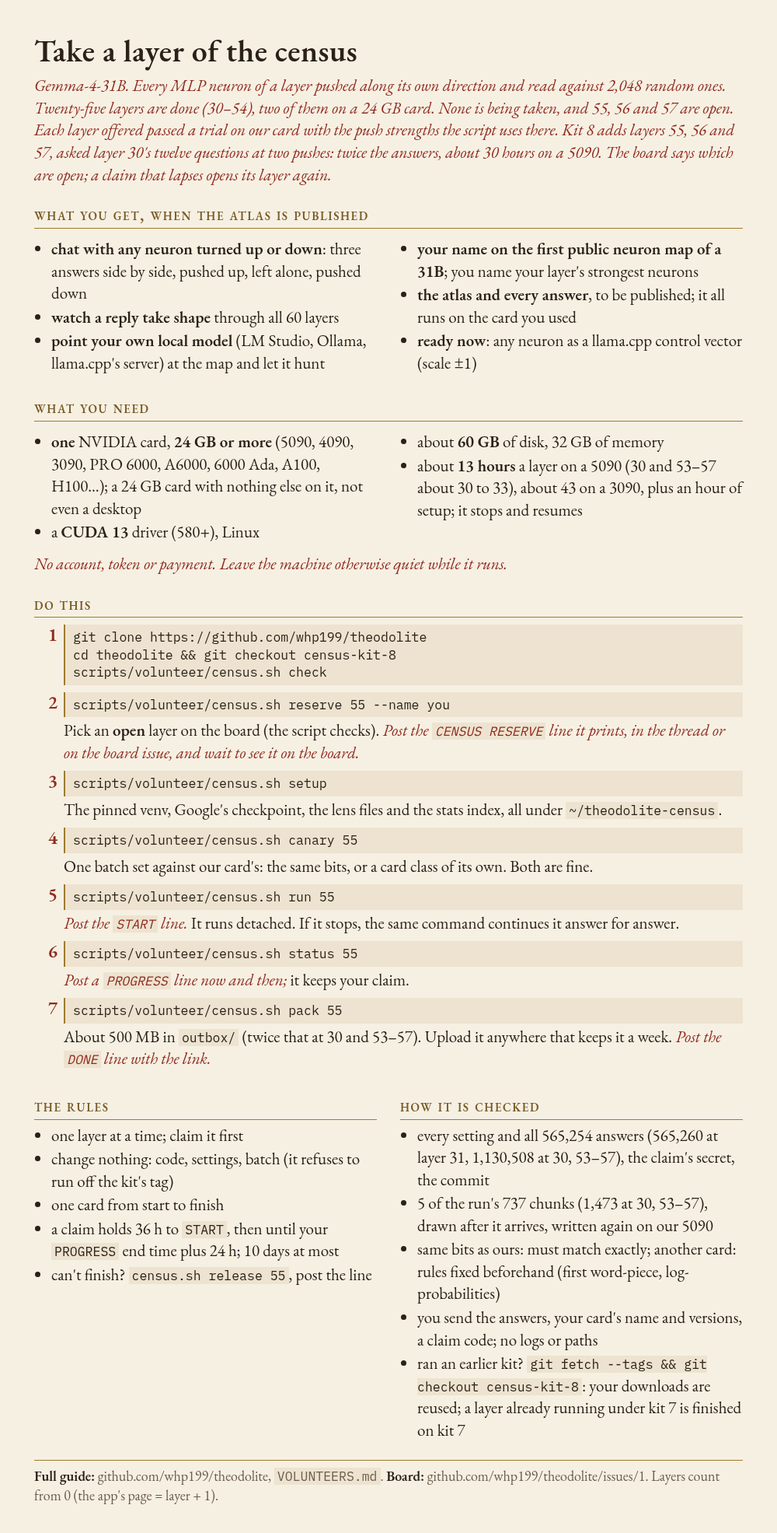
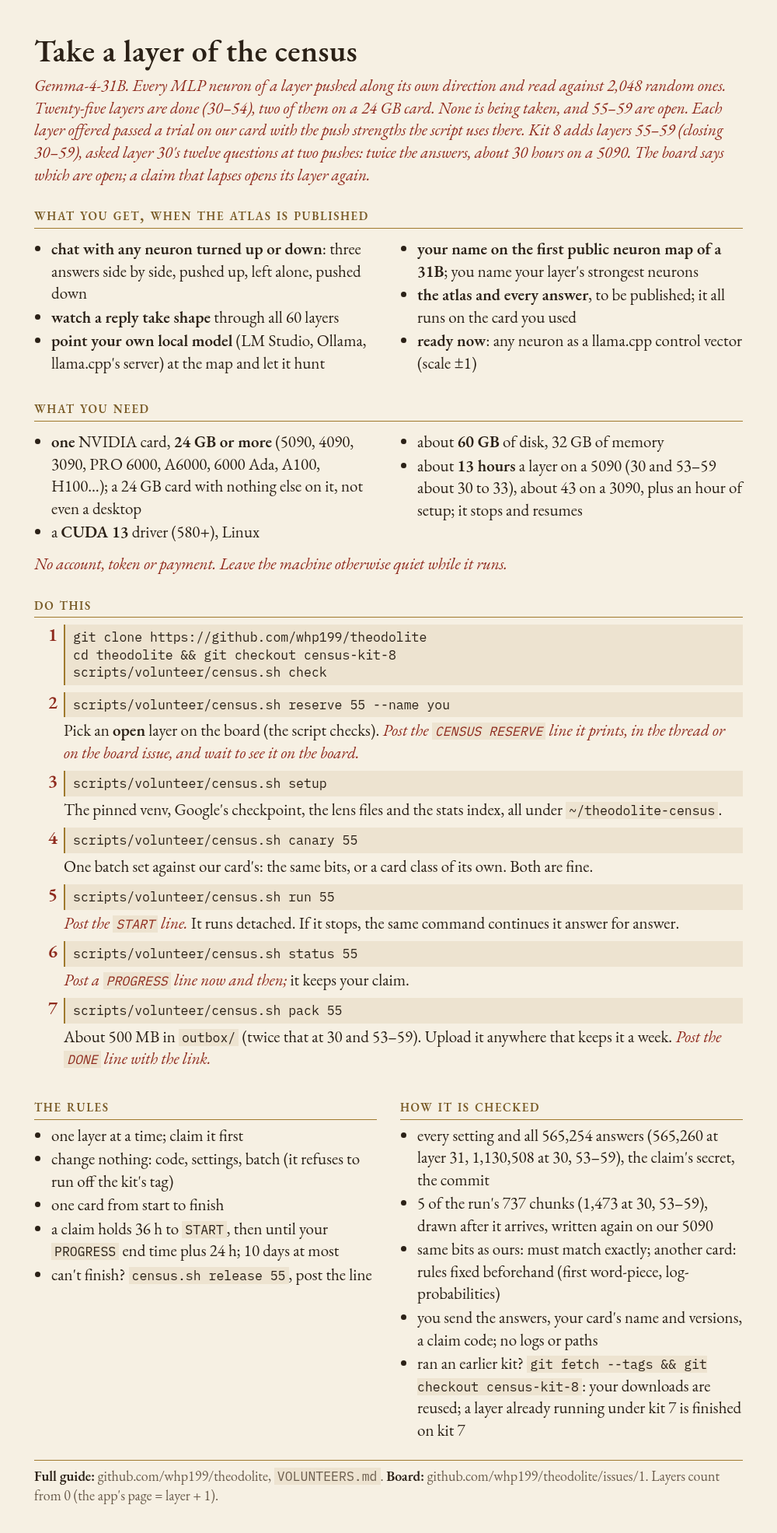
Kit 8 expanded (L55-L59): open L58-L59, closing L30-L59

Changed region(s): [[0.031, 0.0619, 0.682, 0.1238], [0.682, 0.0619, 0.93, 0.1238]]

diff --git a/volunteers/post/guide.html b/volunteers/post/guide.html
@@ -31,9 +31,9 @@ code { font-size:16.5px; background:rgba(160,122,46,.10); padding:0 4px; }
 
 <h1>Take a layer of the census</h1>
 <p class="sub">Gemma-4-31B. Every MLP neuron of a layer pushed along its own direction and read against 2,048 random
-ones. Twenty-five layers are done (30–54), two of them on a 24 GB card. None is being taken, and 55, 56 and 57 are open.
-Each layer offered passed a trial on our card with the push strengths the script uses there. Kit 8 adds layers 55,
-56 and 57, asked layer 30's twelve questions at two pushes: twice the answers, about 30 hours on a 5090. The board says which are open; a
+ones. Twenty-five layers are done (30–54), two of them on a 24 GB card. None is being taken, and 55–59 are open.
+Each layer offered passed a trial on our card with the push strengths the script uses there. Kit 8 adds layers 55–59
+(closing 30–59), asked layer 30's twelve questions at two pushes: twice the answers, about 30 hours on a 5090. The board says which are open; a
 claim that lapses opens its layer again.</p>
 
 <h2>what you get, when the atlas is published</h2>
@@ -58,7 +58,7 @@ claim that lapses opens its layer again.</p>
 </ul>
 <ul>
 <li>about <b>60 GB</b> of disk, 32 GB of memory</li>
-<li>about <b>13 hours</b> a layer on a 5090 (30 and 53–57 about 30 to 33), about 43 on a 3090, plus an hour of setup; it stops and resumes</li>
+<li>about <b>13 hours</b> a layer on a 5090 (30 and 53–59 about 30 to 33), about 43 on a 3090, plus an hour of setup; it stops and resumes</li>
 </ul>
 </div>
 <p class="rub">No account, token or payment. Leave the machine otherwise quiet while it runs.</p>
@@ -81,7 +81,7 @@ continues it answer for answer.</p></div></li>
 <li><div><pre>scripts/volunteer/census.sh status 55</pre>
 <p class="say"><span class="rub">Post a <code>PROGRESS</code> line now and then;</span> it keeps your claim.</p></div></li>
 <li><div><pre>scripts/volunteer/census.sh pack 55</pre>
-<p class="say">About 500 MB in <code>outbox/</code> (twice that at 30 and 53–57). Upload it anywhere that keeps it a week. <span class="rub">Post the
+<p class="say">About 500 MB in <code>outbox/</code> (twice that at 30 and 53–59). Upload it anywhere that keeps it a week. <span class="rub">Post the
 <code>DONE</code> line with the link.</span></p></div></li>
 </ol>
 
@@ -99,8 +99,8 @@ continues it answer for answer.</p></div></li>
 <div>
 <h2>how it is checked</h2>
 <ul>
-<li>every setting and all 565,254 answers (565,260 at layer 31, 1,130,508 at 30, 53–57), the claim's secret, the commit</li>
-<li>5 of the run's 737 chunks (1,473 at 30, 53–57), drawn after it arrives, written again on our 5090</li>
+<li>every setting and all 565,254 answers (565,260 at layer 31, 1,130,508 at 30, 53–59), the claim's secret, the commit</li>
+<li>5 of the run's 737 chunks (1,473 at 30, 53–59), drawn after it arrives, written again on our 5090</li>
 <li>same bits as ours: must match exactly; another card: rules fixed beforehand (first word-piece, log-probabilities)</li>
 <li>you send the answers, your card's name and versions, a claim code; no logs or paths</li>
 <li>ran an earlier kit? <code>git fetch --tags &amp;&amp; git checkout census-kit-8</code>: your downloads are reused; a layer already running under kit 7 is finished on kit 7</li>

diff --git a/scripts/check_volunteer_kit.py b/scripts/check_volunteer_kit.py
@@ -613,16 +613,19 @@ def run_checks(tmp: Path) -> int:
           "a run of another card class at 58 or 59 under match_things is judged only once their bars are measured")
     in_code = [e for e in cv.OTHER_CLASS_BARS if e["measured"] != "2026-10-31"]
     real_kit = cv.read_kit()
-    open_layers = [31, 32, 33, 34, 35, 37, 38, 39, 51, 52]
+    open_layers = [30, 31, 32, 33, 34, 35, 37, 38, 39, 51, 52, 53, 54, 55, 56, 57, 58, 59]
     check([(e["design"], list(e["layers"]), e["measured"], e["bars"]) for e in in_code]
           == [(e["design"], list(e["layers"]), e["measured"], e["bars"]) for e in measured]
           and all(cv.accept_bars(cv.kit_design(real_kit, l), l) is not None for l in open_layers)
+          and cv.accept_bars("match_things", 55)["lp_p99"] == 0.25
+          and cv.accept_bars("match_things", 58)["lp_p99"] is None
           and cv.accept_bars("soft_ceil", 53) is None and cv.accept_bars("break_rel", 45) == cv.ACCEPT_OTHER_CLASS
           and cv.accept_bars("match_ceil", 34)["lp_median"] < cv.ACCEPT_OTHER_CLASS["lp_median"],
           f"kits 4's to 8's bars in the code are their measurements' tables, and every layer open on the board has bars ({[e['bars'] for e in in_code]})")
     far = {**ok_cmp, "lp_median": 0.03, "lp_p99": 0.9}
     check(not cv.judge(far, False)[0] and cv.judge(far, False, None, cv.accept_bars("match_ceil", 34, table))[1] != []
           and cv.judge({**far, "lp_p99": 0.1}, False, None, cv.accept_bars("match_ceil", 34, table))[0]
+          and cv.judge({**ok_cmp, "lp_p99": 0.9}, False, None, cv.accept_bars("match_things", 58))[0]
           and not cv.judge(far, False, None, cv.accept_bars("match_ceil", 33, table))[0]
           and cv.judge({**far, "lp_median": 0.01}, False, None, cv.accept_bars("match_ceil", 33, table))[0],
           "a run is judged by the bars it is given, and a bar that was dropped is not asked")

diff --git a/VOLUNTEERS.md b/VOLUNTEERS.md
@@ -35,6 +35,7 @@ neuron can write by itself, its *write ceiling*:
 | 39 and 51 | ±1 and ±2 of the stream, as at layers 40 to 50 | passed at each, 12 November 2026 |
 | 53 and 54 | layer 30's twelve questions at two counts, set for each layer as at 30 (2.24 and 2.42 ceilings at 53, 2.18 and 2.34 at 54) | passed at each, 18 and 19 November 2026 |
 | 55, 56 and 57 | layer 30's twelve questions at two counts, set for each layer as at 30 (1.95 and 2.14 ceilings at 55, 1.96 and 2.11 at 56, 1.55 and 1.68 at 57) | passed dual-control U2 rollout (`columns` + `isotropic`), 26 and 27 November 2026 |
+| 58 and 59 | layer 30's twelve questions at two counts, set for each layer as at 30 (1.16 and 1.27 ceilings at 58, 0.61 and 0.64 at 59) | passed dual-control U2 rollout (`columns` + `isotropic`), 27 November 2026 |
 
 The script picks the right one for the layer you take; there is nothing to choose. The trials did not pass equally:
 layer 34 passed by the most, and layer 36 by a thousandth on one of its three checks
@@ -44,22 +45,23 @@ with these push strengths. At layer 31 the design that asks twice the questions 
 November 2026). It failed at layer 30, and so did the same twelve questions at both pushes (17 November). At layer
 30 a third design passed (18 November): both pushes, on twelve other questions of the kinds whose answers took a
 push's words up there. The same design then passed at layers 53 and 54 and failed at 29 and 55 on its single-control
-walk (18 and 19 November), then passed at layers 55, 56 and 57 on the dual-control `U2` rollout walk (`columns` +
-`isotropic` controls, `experiments/results/u2_rollout_trial/`, 26 and 27 November 2026). No push strengths have passed
-a trial at layers 0 to 29 or a rollout trial at 58 or 59. Following the exploratory census layer-gap study and GPU
-kill-pilots ([`ANSWER.md`](experiments/results/census_layer_gap/ANSWER.md)), layers 0 to 29 and 58 to 59 remain shut
-and are not offered to volunteers (layers 30 to 54 have been taken, keeping 29,265 page-described neurons, and 55 to 57
-are open under kit 8). **The board says
+walk (18 and 19 November), then passed at layers 55, 56, 57, 58 and 59 on the dual-control `U2` rollout walks
+(`columns` + `isotropic` controls, `experiments/results/u2_rollout_trial/` and `experiments/results/u2_rollout_L58_L59/`,
+26 and 27 November 2026), closing the upper half (30 to 59). No push strengths have passed a trial at layers 0 to 29.
+Following the exploratory census layer-gap study and GPU kill-pilots
+([`ANSWER.md`](experiments/results/census_layer_gap/ANSWER.md)), layers 0 to 29 remain shut and are not offered to
+volunteers (layers 30 to 54 have been taken, keeping 29,265 page-described neurons, and 55 to 59 are open under kit 8).
+**The board says
 which layers are open.** Layers count from 0, as every script counts them (the app's page = layer + 1).
 
-**Kit 8, the kit to use now, is kit 7 with layers 55, 56 and 57 added** (27 November 2026), each taken with the design
-for layer 30 at its own push strengths (above). Every other layer is taken exactly as under kit 7. **Layers 30 and 53
-to 57 are twice the others**: 48 answers a neuron, not 24, so 1,130,508 in all. That is about 30 to 33 hours on a 5090
-(by our trials' pace at 30 and 53–54). Kit 7 (19 November 2026) added layers 53 and 54, kit 6 (18 November) layer 30,
-and kit 5 (17 November) layer 31. Kit 4 opened the census to 24 GB cards (14 November 2026, from a contributor's pull
-request): the loader keeps a part of the model the census never reads off the card, and `census.sh check` asks how much
-of the card is free. **If a layer of yours is running under kit 7, finish it with kit 7**: do not switch its checkout.
-Its bundle is checked by kit 7's own rules.
+**Kit 8, the kit to use now, is kit 7 with layers 55, 56, 57, 58 and 59 added** (27 November 2026), each taken with
+the design for layer 30 at its own push strengths (above). Every other layer is taken exactly as under kit 7. **Layers
+30 and 53 to 59 are twice the others**: 48 answers a neuron, not 24, so 1,130,508 in all. That is about 30 to 33 hours
+on a 5090 (by our trials' pace at 30 and 53–54). Kit 7 (19 November 2026) added layers 53 and 54, kit 6 (18 November)
+layer 30, and kit 5 (17 November) layer 31. Kit 4 opened the census to 24 GB cards (14 November 2026, from a contributor's
+pull request): the loader keeps a part of the model the census never reads off the card, and `census.sh check` asks how
+much of the card is free. **If a layer of yours is running under kit 7, finish it with kit 7**: do not switch its
+checkout. Its bundle is checked by kit 7's own rules.
 
 **The board** shows which layer is whose: the pinned *Census layer board* issue, <https://github.com/whp199/theodolite/issues/1>.
 
@@ -76,15 +78,15 @@ layer on:
 - **Point your own local model at the map.** The scientist works with any OpenAI-compatible endpoint (LM Studio,
   Ollama, llama.cpp's server). It runs pushes and texts, names what it finds, and points at it on the map.
 - **Your name on the first public map of a 31B's neurons.** We found none published, only sparse autoencoders
-  (`REFERENCES.md` §J). Your layer is credited to the name you gave, and you name the strongest neurons of your layer
+  (`REFERENCES.md` §J). Your layer is credited to the name you gave, and you name your layer's strongest neurons
   in the published atlas.
-- **Open data**: every answer of every layer, 565,254 a layer (twice that at layers 30 and 53 to 57), to be published
+- **Open data**: every answer of every layer, 565,254 a layer (twice that at layers 30 and 53 to 59), to be published
   with the project.
 - **Ready now: a neuron in your own frontend.** Any neuron exports as a llama.cpp control vector, for `llama-server`
   and SillyTavern or anything else on it. Keep the scale near ±1 (*Use a neuron in your own setup*, below).
 
 A census rank says what a neuron's push does to six fixed questions at four strengths (at layer 31, twelve at two;
-at layers 30 and 53 to 57, twelve others at four).
+at layers 30 and 53 to 59, twelve others at four).
 What it does in your own chats, you try for yourself.
 
 ## What you need
@@ -93,15 +95,15 @@ What it does in your own chats, you try for yourself.
   L40S, A100, H100 or H200. The 4-bit model rests at about 18 GiB on the card and a batch of answers takes up to about
   4.2 GiB more; it is not split across cards. **A 24 GB card must be headless**: no desktop or other process on it,
   since the longest batches leave under a GiB of its free memory: about 800 MiB on a headless RTX 3090, and about
-  157 to 453 MiB on our own 5090 held down to the 23,900 MiB free that `census.sh check` asks for (169, 157 and 453 MiB
-  at layers 55, 56 and 57). A run that runs out of
+  157 to 453 MiB on our own 5090 held down to the 23,900 MiB free that `census.sh check` asks for (169, 157, 453, 438
+  and 204 MiB at layers 55, 56, 57, 58 and 59). A run that runs out of
   memory stops and is continued by the same command; it never changes its batch. A 3090 has been measured; a 4090
   has not yet been tried.
 - **A driver for CUDA 13**: `nvidia-smi` shows `CUDA Version: 13.0` or later (driver 580 or newer).
 - **Linux**, about **60 GB** free disk, 32 GB of memory, and `git`, `curl`, `zstd`, `tar` and `flock` (util-linux),
   and a C compiler (`gcc`), which Triton may need for its kernels.
 - **Time**: about 13 hours for a layer on a 5090, plus about an hour of setup, mostly downloading about 35 GB. Layers
-  30 and 53 to 57 have twice the answers: about 30 to 33 hours on a 5090 (by our trials' pace at 30 and 53–54).
+  30 and 53 to 59 have twice the answers: about 30 to 33 hours on a 5090 (by our trials' pace at 30 and 53–54).
   Other cards will differ (an RTX 3090 held at its 83 °C limit wrote a sixteenth of layer 45 at 3.7 answers a
   second: about 43 hours for a layer, and perhaps four or five days for one of those), and the status line tells
   you yours. The run can be stopped and continued at any point.
@@ -184,7 +186,7 @@ scripts/volunteer/census.sh check                      # can this machine take a
    ```
 
    It checks the run is whole and taken with the kit's settings, then packs about 500 MB (about twice that at layers
-   30 and 53 to 57) into `~/theodolite-census/outbox/L55-match_things-<claim>.tar` (the name carries the layer's
+   30 and 53 to 59) into `~/theodolite-census/outbox/L55-match_things-<claim>.tar` (the name carries the layer's
    design). Upload that somewhere anyone can download it for a week or more: a Hugging Face dataset, a torrent, a
    file host. Post the `CENSUS DONE` line with your link in it.
 
@@ -228,12 +230,12 @@ These rules were fixed on 30 October 2026, before any volunteer's run had been s
    - every setting, the job list, the stats index and the push strength must match ours at that layer;
    - the commit must be the kit's tag, from a clean checkout;
    - every one of the layer's 565,254 answers must be there exactly once (565,260 at layer 31, 1,130,508 at layers
-     30 and 53 to 57).
+     30 and 53 to 59).
 3. **The canary**:
    - against your own run's first batch (the same card writing the same batch);
    - against ours (the same bits, or a class of its own);
-   - your six unpushed answers against ours (twelve at layers 30, 31 and 53 to 57).
-4. **The spot-check**: when the bundle arrives, 5 of the run's 737 chunks (1,473 at layers 30 and 53 to 57) are drawn at
+   - your six unpushed answers against ours (twelve at layers 30, 31 and 53 to 59).
+4. **The spot-check**: when the bundle arrives, 5 of the run's 737 chunks (1,473 at layers 30 and 53 to 59) are drawn at
    random, so nobody can know them in advance. Each is written again on our 5090, about a minute a chunk. Then:
    - **The same bits as ours**: every spot answer must match bit for bit.
    - **A card class of its own**: the run must meet all of these:
@@ -250,6 +252,7 @@ These rules were fixed on 30 October 2026, before any volunteer's run had been s
        | 39–51 | `break_rel` | 0.028 | 0.37 |
        | 53 and 54 | `match_things` | 0.0091 | 0.26 |
        | 55–57 | `match_things` | 0.0086 | 0.25 |
+       | 58 and 59 | `match_things` | 0.0098 | — |
 
      - each unpushed answer is ours, or parts from ours only at a word-piece we wrote with probability below 0.6 (a
        near-tie).
@@ -283,7 +286,7 @@ These rules were fixed on 30 October 2026, before any volunteer's run had been s
    RTX PRO 6000 under `match_ceil` and accepted on 16 November 2026, came to medians of 0.0051 and 0.0046 and 99th
    percentiles of 0.115 and 0.110, where our own arithmetic gave 0.0050 and 0.117 (layers 33 and 32, from the same
    card on 17 and 18 November, 0.0055 and 0.116, and 0.0052 and 0.117); and layer 51, from an RTX 3090 under
-   `break_rel`, to 0.0111 and 0.150. A layer with no measured bars (0 to 29 and 58 to 59, which are shut) is not judged
+   `break_rel`, to 0.0111 and 0.150. A layer with no measured bars (0 to 29, which are shut) is not judged
    until they are measured.
 
    **Amended 17 November 2026: kit 5's layer 31.** Layer 31 is taken with `match_wide`, which no earlier kit measured.
@@ -332,6 +335,20 @@ These rules were fixed on 30 October 2026, before any volunteer's run had been s
      matched them bit for bit. The near-tie bar stays 0.6 (24 of 132 arithmetic-only answers parted per layer, the
      surest at 0.52).
 
+   **Amended 27 November 2026: kit 8's layers 58 and 59.** They are taken with `match_things` too, at pushes of their
+   own (±1.16 and ±1.27 ceilings at 58, ±0.61 and ±0.64 at 59), after passing the dual-control `U2` rollout walk
+   (`columns` + `isotropic`, `experiments/results/u2_rollout_L58_L59/`). Before they opened under kit 8, their bars
+   were measured on our 5090, by the same rule, under a registration committed before the measurement
+   ([`census_other_card_bars/kit8_ext/prereg/RULES.md`](experiments/results/census_other_card_bars/kit8_ext/prereg/RULES.md)).
+   The measurement used 768 answers a layer, the two layers pooled (1,536 answers a variant).
+   - Our own arithmetic moves the median to 0.0043, so the median bar is 0.0098 (catching a push 10% off); it moves the
+     99th percentile to 0.3226, where no near miss is caught cleanly, so the 99th-percentile bar is dropped (`None`) by
+     the rule. Neither layer's own floor reaches the group's bar, and the first-piece bar stays 0.90 (lowest arithmetic
+     0.9948).
+   - Their twelve unpushed answers are layer 30's: no push enters them, and the `u2_rollout_L58_L59` runs at 58 and 59
+     matched them bit for bit. The near-tie bar stays 0.6 (24 of 132 arithmetic-only answers parted per layer, the
+     surest at 0.52).
+
    **Amended 31 October 2026: the unpushed answers.** The first rule asked each to share at least 16 word-pieces with
    ours. That first volunteer's whole run kept three of the six word for word. The other three parted sooner, at
    pieces 5, 21 and 27, each a near-tie: we had written that piece with probability 0.50, 0.41 or 0.50, and their card
@@ -353,10 +370,10 @@ text survives as the random directions' does (the rules are in `experiments/resu
 `census_soft_trials/prereg/`, `census_match_trials/prereg/` and `census_match_walk/prereg/`). The trials at 30, 31,
 53 and 54 had two of them, the whole reading and the neurons the random directions cover, and those layers are read
 by those two (`census_wide_trials/prereg/`, `census_things_trial/prereg/` and `census_things_walk/prereg/`). The
-push strengths are counted calibrated at eleven of the seventeen layers whose trial passed. Kit 3 opened nine of them,
+push strengths are counted calibrated at eleven of the nineteen layers whose trial passed. Kit 3 opened nine of them,
 layer 36 was held for our own card and taken there, kit 5 added layer 31, kit 6 layer 30, kit 7 added 53 and 54, and
-kit 8 adds 55, 56 and 57.
-At those six (30 and 53 to 57) they are not counted calibrated yet: that is the owner's to decide, and nothing has
+kit 8 adds 55 to 59.
+At those eight (30 and 53 to 59) they are not counted calibrated yet: that is the owner's to decide, and nothing has
 been changed.
 Read whole by these checks (16 to 22 November 2026), layers 32 to 35, 37 to 39, 51 and 52 pass all three, layers 31,
 53 and 54 pass their two, layer 36 passes two and misses the gentler push's check on one figure, 0.564 against 0.57, and

diff --git a/ROADMAP.md b/ROADMAP.md
@@ -1763,34 +1763,43 @@ layers, the determinism run and the sampled push on 29 October). In this section
       words did not carry; at 29 and 30 it reads almost nothing (0.53 to 0.57, no neuron at q ≤ 0.05). At the top
       layers this is close to built in, a narrower claim than the census’s. Judging a layer by it would need a fresh
       trial and bars of its own, and whether a layer read only so counts as taken is the owner’s word.
-  - **Kit 8: kit 7 with layers 55, 56 and 57 added** (cut 27 November 2026, tag `census-kit-8`, after the
-    pre-registered dual-control `U2` rollout walk in [`u2_rollout_trial/`](experiments/results/u2_rollout_trial/RESULT.md)
-    cleared all three layers 3-for-3). Layers 55, 56 and 57 are taken with `match_things`, on layer 30’s twelve
-    questions at each layer’s own two counts (±1.95 and ±2.14 ceilings at 55, ±1.96 and ±2.11 at 56, ±1.55 and ±1.68
-    at 57; `MATCH_CEIL`): 48 answers a unit, 1,130,508 a layer, about 30 to 33 hours on a 5090. Their doses are not
-    counted calibrated there (`DOSES_CALIBRATED` unchanged). Every other layer is taken as under kit 7.
-    - **The `u2_rollout` validation (`L55 -> L56 -> L57`, 26–27 November)** evaluated `1,022` fresh neurons per layer
-      against dual paired controls (`1,024 columns` seed=21 and `1,024 isotropic` seed=22) on both Track 2A
-      (`U2-T_dec`: `94`, `134`, `82` dual `FDP <= 0.05` `N >= 3`; `C4` `1.000`, `0.975`, `0.937`) and corrected Track 2B
-      (`U2-weight_words`: `177`, `307`, `382` dual `q <= 0.05`), with `0 / 1,024` cross-pool false discoveries at every
-      layer.
+  - **Kit 8: kit 7 with layers 55–59 added, closing L30–L59** (cut 27 November 2026, tag `census-kit-8`, after the
+    pre-registered dual-control `U2` rollout walks in [`u2_rollout_trial/`](experiments/results/u2_rollout_trial/RESULT.md)
+    and [`u2_rollout_L58_L59/`](experiments/results/u2_rollout_L58_L59/RESULT.md) cleared all five layers 5-for-5).
+    Layers 55, 56, 57, 58 and 59 are taken with `match_things`, on layer 30’s twelve questions at each layer’s own two
+    counts (±1.95 and ±2.14 ceilings at 55, ±1.96 and ±2.11 at 56, ±1.55 and ±1.68 at 57, ±1.16 and ±1.27 at 58, ±0.61
+    and ±0.64 at 59; `MATCH_CEIL`): 48 answers a unit, 1,130,508 a layer, about 30 to 33 hours on a 5090. Their doses
+    are not counted calibrated there (`DOSES_CALIBRATED` unchanged). Every other layer is taken as under kit 7.
+    - **The `u2_rollout` validation (`L55–L59`, 26–27 November)** evaluated `1,022` fresh neurons per layer against dual
+      paired controls (`1,024 columns` seed=21 and `1,024 isotropic` seed=22): `L55–L57` passed on both Track 2A
+      (`U2-T_dec`: `94`, `134`, `82` dual `FDP <= 0.05` `N >= 3`; `C4` `1.000`, `0.975`, `0.937`) and Track 2B
+      (`U2-weight_words`: `177`, `307`, `382` dual `q <= 0.05`); `L58` passed Track 2B (`483 / 1,022 = 47.3%`,
+      `AUC = 0.7743 / 0.7704`, `rho_AB = 0.8418`) and reached `424` all-`N>=1` `fdp05` (`vs_col`) on Track 2A; and
+      `L59` (under the `(0.61, 0.64)` `fine_pilot_L59.json` amendment) passed Track 2A (`112 / 1,022` dual `N >= 3`,
+      `C4 = 0.9421 / 0.9622`) with `432 / 1,022 = 42.3%` dual `q <= 0.05` on Track 2B (`0 / 1,024` cross-pool false
+      discoveries at every layer).
     - **The answers and 24 GB headroom.** All 16 carried-over home canaries of kit 7, taken again under kit 8, matched
-      bit for bit; `L55`, `L56` and `L57` under `match_things` were added (`9243f99`, 82 files in
+      bit for bit; `L55`, `L56` and `L57` under `match_things` were added (`9243f99`, 82 files), and then `L58` and `L59`
+      were added alongside `17/17` active carried-over canaries matching bit for bit (`eecca22`, 84 files in
       `volunteers/home_canaries/`). Held to `23,900 MiB` free on the home 5090 (`measure_batches.py --hold-mib`), all
       12 longest batches were written at each layer (`22.14 GiB` net allocated, `walk` the tightest): `169 MiB` spare
-      at 55, `157 MiB` at 56, and `453 MiB` at 57.
+      at 55, `157 MiB` at 56, `453 MiB` at 57, `438 MiB` at 58 (`bicycle`), and `204 MiB` at 59 (`lamp`).
     - **Their unpushed answers** are layer 30’s (`census_volunteer.DESIGN_BASELINES`): no push enters them, and the
-      `u2_rollout` trials at 55, 56 and 57 wrote the same twelve bit for bit.
-    - **Their bars for another card class**, registered before anything was measured
-      ([`census_other_card_bars/kit8/prereg/RULES.md`](experiments/results/census_other_card_bars/kit8/prereg/RULES.md),
-      `7011bae`, measured `dacbade`). At each layer all 12 unpushed answers matched `u2_rollout` bit for bit (T1), and
-      the near-tie bar stayed `0.6` (`24/132` arithmetic-only partings per layer, surest `0.5194`; T2). On the pooled
-      chunk 0 of all three layers (`2,304` answers a variant), the home card’s arithmetic moves the median to `0.0037`
-      and the 99th percentile to `0.1118`; the bars are `0.0086` (catching a push 5% off) and `0.25` (10% off), and
-      `0.90` of first word-pieces (lowest arithmetic `0.9925`). None of the three layers’ own floors reaches the
-      group’s bars (`1173a0b`).
-    - **The board** is kit 8’s with 55, 56 and 57 open (`25` layers done, `30–54`, `19` by volunteers; `0–29` and
-      `58–59` shut / not taken). Any run begun under kit 7 finishes on kit 7 (`census_volunteer.earlier_kit`).
+      `u2_rollout` trials at 55–59 wrote the same twelve bit for bit.
+    - **Their bars for another card class**, registered before anything was measured:
+      - `L55–L57` ([`kit8/prereg/RULES.md`](experiments/results/census_other_card_bars/kit8/prereg/RULES.md), `7011bae`,
+        measured `dacbade`): `12/12` unpushed answers matched `u2_rollout` bit for bit (T1), near-tie bar `0.6`
+        (`24/132` partings per layer, surest `0.5194`; T2); pooled chunk 0 (`2,304` answers/variant) gave arithmetic
+        median `0.0037` and 99th percentile `0.1118`, setting bars `0.0086` (5% off), `0.25` (10% off), and `0.90` first
+        piece (lowest arithmetic `0.9925`; `1173a0b`).
+      - `L58–L59` ([`kit8_ext/prereg/RULES.md`](experiments/results/census_other_card_bars/kit8_ext/prereg/RULES.md),
+        `e2d210e`, measured `13b3997`): `12/12` unpushed answers matched `u2_rollout_L58_L59` bit for bit (T1),
+        near-tie bar `0.6` (`24/132` partings per layer, surest `0.5194`; T2); pooled chunk 0 (`1,536` answers/variant)
+        gave arithmetic median `0.0043` and 99th percentile `0.3226`, setting `lp_median = 0.0098` (10% off), `lp_p99 =
+        None` (dropped by the rule, neither layer reaching a group bar), and `first_piece = 0.90` (lowest arithmetic
+        `0.9948`; `8d0212c`).
+    - **The board** is kit 8’s with 55–59 open (`25` layers done, `30–54`, `19` by volunteers; `0–29` shut / not taken).
+      Any run begun under kit 7 finishes on kit 7 (`census_volunteer.earlier_kit`).
 - **A pattern put to the test, without a push** (built 14 November 2026 on the stand-in, and tried on the 31B the
   same day, below; the owner’s words that day, “Start on the first two ideas from the article”, then “Pause 36, try
   now”). The census

diff --git a/docs/ATLAS.md b/docs/ATLAS.md
@@ -53,10 +53,12 @@ a thing works, for three tips or about an object. Kit 6 offered it there, and re
 short of its trial on one figure, how its words carry between question halves (0.553 against a bar of 0.57). Read
 against the random directions every whole layer is read against, the trial's own neurons fall short too: the
 trial's draw of random directions was a kind one. Its doses are not counted calibrated. The same design passed at 54 and 55 (53 and 54 on the board) on 18 and 19 November and failed at 30 and 56 on its
-single-control walk; kit 7 offered it at 54 and 55. On 26–27 November it passed at 56–58 (55–57 on the board) under the
-dual-control `U2` rollout walk (`columns` + `isotropic`, [`experiments/results/u2_rollout_trial/`](../experiments/results/u2_rollout_trial/));
-since 27 November kit 8 offers it at 56–58, its doses not counted calibrated there either. The other thirty-two layers
-(1–30 and 59–60) have no design that passed there. Where a census’s doses are not counted calibrated the atlas
+single-control walk; kit 7 offered it at 54 and 55. On 26–27 November it passed at 56–60 (55–59 on the board) under the
+dual-control `U2` rollout walks (`columns` + `isotropic`, [`experiments/results/u2_rollout_trial/`](../experiments/results/u2_rollout_trial/)
+and [`experiments/results/u2_rollout_L58_L59/`](../experiments/results/u2_rollout_L58_L59/));
+since 27 November kit 8 offers it at 56–60, closing the upper half (31–60; 30–59 on the board), its doses not counted
+calibrated there either. The other thirty layers
+(1–30) have no design that passed there. Where a census’s doses are not counted calibrated the atlas
 marks it “doses not calibrated at this layer” and inks it without gilt.
 
 Eleven layers of the second round are in. Three volunteers took layers 35, 36, 40 and 52 (34, 35, 39 and 51 on the
@@ -93,10 +95,10 @@ and says little of single neurons: none has q ≤ 0.05 and 49 beat all 2,048.
 On 22 November 55 (54) came home from the RTX PRO 6000 that took 31–36, and passes both of its trial's checks read
 whole, a little above its trial: it leads by 0.727 (0.712), its words carry by 0.621 and 0.625, 5,481 have q ≤ 0.05
 and 4,254 beat all 2,048, and its strongest random directions stand 6 deviations out writing “thought” run together.
-The steer lens agrees with it, now the highest layer it has been checked at. None is being taken and 56–58 (55–57 on
-the board) are open under kit 8. Every figure is in ROADMAP §vi.
+The steer lens agrees with it, now the highest layer it has been checked at. None is being taken and 56–60 (55–59 on
+the board) are open under kit 8, closing the upper half. Every figure is in ROADMAP §vi.
 
-After the census layer-gap study and its three GPU kill-pilots ([`ANSWER.md`](../experiments/results/census_layer_gap/ANSWER.md)), layers 31–55 (0–based 30–54, keeping `.units.jsonl`'s 29,265 page-described neurons) remain the twenty-five taken census layers until 56–58 arrive, and layers 1–30 and 59–60 (0–based 0–29 and 58–59) remain shut / not taken. Where supplementary files are present, the atlas surfaces exploratory readings on those un-taken layers strictly beside always-visible red caveats: pushed on set text (`forced_odd`, 0.25-nat uncalibrated doses) at layers 56–60 and document-disjoint causal `(-1, 0)` corpus firing (`input_census`, read on the existing `passages.d` index without storing passages) at layers 1–30; neither is served as a taken census, and `fdr_rescue` / `circuit_mediated` are not shown in the interface.
+After the census layer-gap study and its three GPU kill-pilots ([`ANSWER.md`](../experiments/results/census_layer_gap/ANSWER.md)), layers 31–55 (0–based 30–54, keeping `.units.jsonl`'s 29,265 page-described neurons) remain the twenty-five taken census layers until 56–60 arrive, and layers 1–30 (0–based 0–29) remain shut / not taken. Where supplementary files are present, the atlas surfaces exploratory readings on those un-taken layers strictly beside always-visible red caveats: pushed on set text (`forced_odd`, 0.25-nat uncalibrated doses) at layers 56–60 and document-disjoint causal `(-1, 0)` corpus firing (`input_census`, read on the existing `passages.d` index without storing passages) at layers 1–30; neither is served as a taken census, and `fdr_rescue` / `circuit_mediated` are not shown in the interface.
 
 <table>
   <tr>

diff --git a/README.md b/README.md
@@ -88,10 +88,10 @@ by the home card and by volunteers on their own. The first eleven layers taken (
 
 On 27 November 2026 twenty-five layers were done (31–55, counting 1–60 as the pages do; the board counts 0–59). One of
 them, layer 31 (the board's 30), read whole falls short of its trial on one figure, and the board says so. None was
-being taken, and three were open (kit 8 added 56–58, the board's 55–57, after passing the dual-control `U2` rollout
-walk). Following the census layer-gap study and its kill-pilots
+being taken, and five were open (kit 8 added 56–60, the board's 55–59, after passing the dual-control `U2` rollout
+walks, closing 31–60). Following the census layer-gap study and its kill-pilots
 ([`ANSWER.md`](experiments/results/census_layer_gap/ANSWER.md)), those twenty-five layers (31–55, keeping `.units.jsonl`'s
-29,265 page-described neurons) remain the taken census until 56–58 arrive, and layers 1–30 and 59–60 stay shut / not
+29,265 page-described neurons) remain the taken census until 56–60 arrive, and layers 1–30 stay shut / not
 taken; when exploratory gap files are present, the atlas displays exploratory set-text push (56–60) and corpus-firing (1–30)
 readings beside always-visible red caveats.
 [How to take a layer](VOLUNTEERS.md) · [the board](https://github.com/whp199/theodolite/issues/1) · [the atlas and the
@@ -264,13 +264,14 @@ Theodolite began as the instrument of one study, of whether Gemma 4 is “female
 interpretability, and a way to learn it: one a newcomer can learn to read a model with, and one whose readings say
 how far they can be trusted. What is under way:
 - **The census of all sixty layers.** Layer by layer, a trial first, taken by the home card and by volunteers. Below
-  layer 31 and above layer 58 the push that reads is still being found. On 16 November 2026 a design that asks twice
+  layer 31 the push that reads is still being found. On 16 November 2026 a design that asks twice
   the questions at one dose passed its trial at layer 32 (31 on the board), which kit 5 offers, and failed at 31 (30
   on the board); the same questions at two doses failed there too (17 November). Twelve other questions at two doses,
   each asking how a thing works, for three tips or about an object, passed at 31 on 18 November, and kit 6 offers
   them there. The same design passed at 54 and 55 and failed at 30 and 56 on its single-control walk (18 and 19
-  November; kit 7 offers it at 54 and 55), then passed at 56–58 (the board's 55–57) under the dual-control `U2`
-  rollout walk (`columns` + `isotropic`, 26–27 November); kit 8 offers it at 56–58.
+  November; kit 7 offers it at 54 and 55), then passed at 56–60 (the board's 55–59) under the dual-control `U2`
+  rollout walks (`columns` + `isotropic`, 26–27 November); kit 8 offers it at 56–60, closing the upper half (31–60;
+  30–59 on the board).
 - **Reading a neuron without pushing it.** Each face’s strongest passages are kept, and since 14 November 2026 a
   pattern written from them can be put to a blind test. Neither is yet validated as a label.
 - **A lens fitted on the instruct model.** None tested so far has beaten the base-fitted J++ where it would be

diff --git a/volunteers/BOARD.md b/volunteers/BOARD.md
@@ -34,7 +34,8 @@ Kit 8 (census-kit-8). How to take a layer: [VOLUNTEERS.md](https://github.com/wh
 | 55 | 56 | OPEN |  |  |  | match_things; dual-control U2 rollout passed, 27 Nov 2026; twice the answers, about 30 h on a 5090 |
 | 56 | 57 | OPEN |  |  |  | match_things; dual-control U2 rollout passed, 27 Nov 2026; twice the answers, about 30 h on a 5090 |
 | 57 | 58 | OPEN |  |  |  | match_things; dual-control U2 rollout passed, 27 Nov 2026; twice the answers, about 30 h on a 5090 |
-| 58–59 | 59–60 | not taken |  |  |  | not yet passed a rollout trial under match_things; still shut after the gap study of 25 November 2026: not taken |
+| 58 | 59 | OPEN |  |  |  | match_things; dual-control U2 rollout passed, 27 Nov 2026; twice the answers, about 30 h on a 5090 |
+| 59 | 60 | OPEN |  |  |  | match_things; dual-control U2 rollout passed, 27 Nov 2026; twice the answers, about 30 h on a 5090 |
 
 Judged:
 
@@ -58,4 +59,4 @@ Judged:
 - L53 anon 7ce4c92d: accepted (home bits (NVIDIA GeForce RTX 5090), spot-checked)
 - L54 anon 0471bd29: accepted (own bits (NVIDIA RTX PRO 6000 Blackwell Server Edition), spot-checked)
 
-Holds: 36 h after RESERVE to START; then the run's end time (from PROGRESS) plus 24 h; at most 10 days in all. Updated 2026-11-27T11:53Z.
+Holds: 36 h after RESERVE to START; then the run's end time (from PROGRESS) plus 24 h; at most 10 days in all. Updated 2026-11-28T00:57Z.
